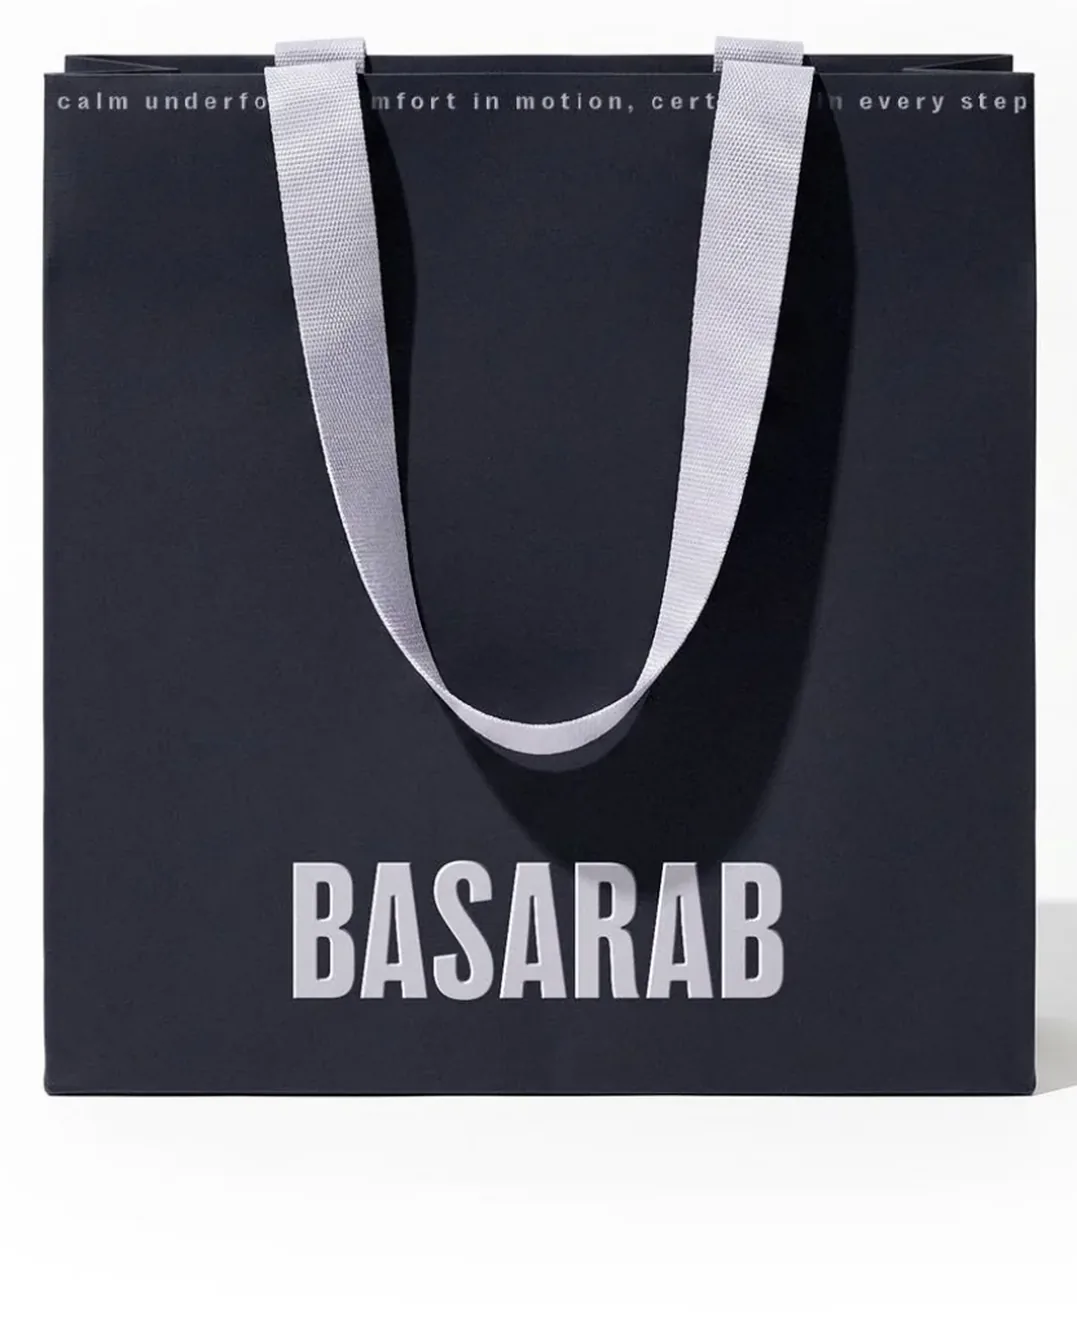
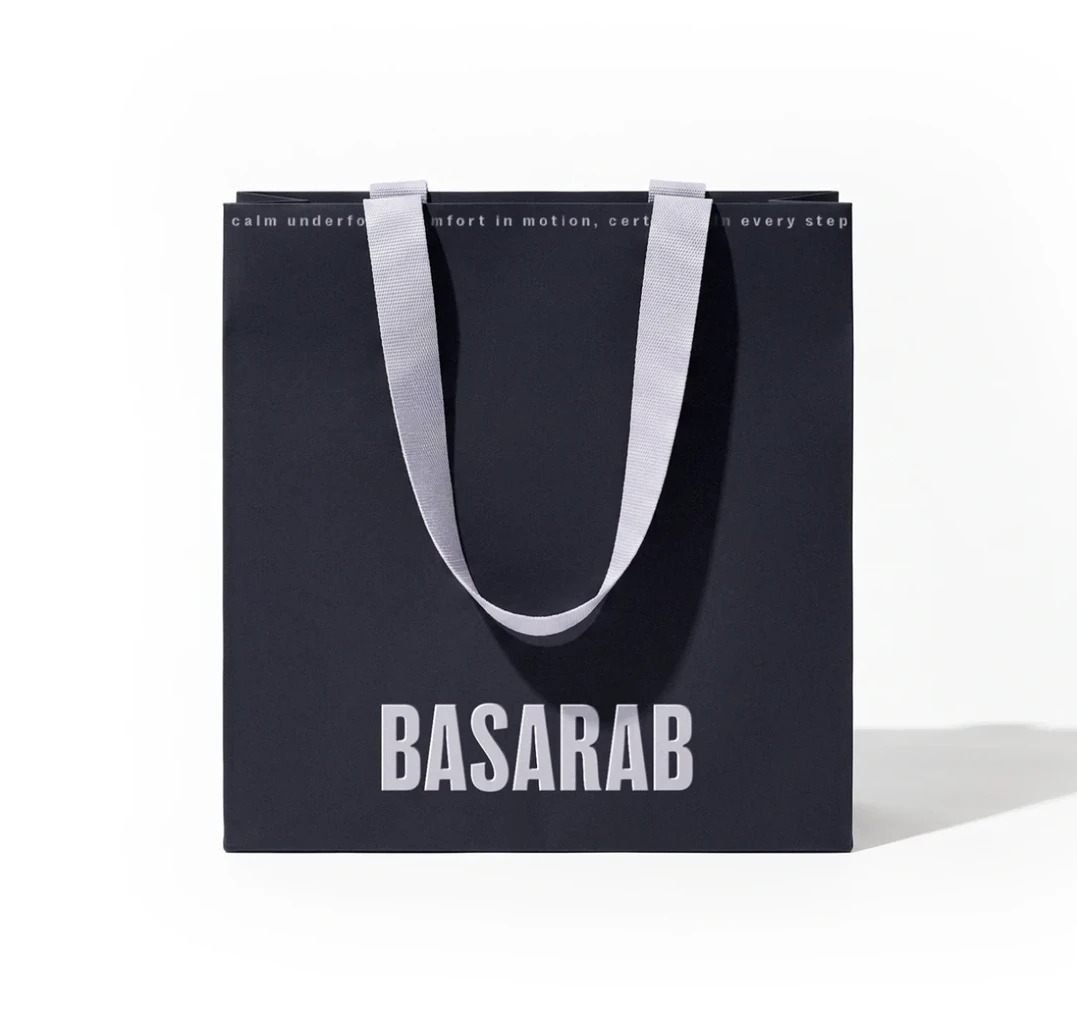
Fix 3 mobile Basarab image crop bugs found via dimension audit
- basarab-m16 (tote bag): file was 1320px tall but container is
  1020px, so object-fit:cover center-cropped away the top tagline
  text entirely. Re-cropped from the corrected desktop source to
  match the container aspect.
- basarab-m19 (care guide): same declared/actual height mismatch;
  re-cropped to the correct aspect for consistency.
- basarab-m23 (billboard): container used --mh:21.25rem instead of
  14.375rem, forcing a ~16% zoom-crop on each side; fixed the --mh
  value and re-cropped from the corrected desktop billboard source
  (no more artifact stripe at the top).

Verified via a full declared-vs-actual dimension scan across all 64
Basarab image refs (now 0 mismatches) and a live Playwright pass
(no broken images, no new text overflow, EN/RU both clean).

diff --git a/index.html b/index.html
@@ -3117,7 +3117,7 @@ button.project__media-link {
       <div class="case__media" style="--mh:21.25rem"><img loading="lazy" src="images/basarab-26.webp?v=2" alt="" width="1006" height="1200" /><img loading="lazy" class="case__media-mobile" src="images/basarab-m22.webp?v=2" alt="" width="1077" height="1020" /></div>
     </div>
 
-    <div class="case__media reveal" style="--mh:21.25rem"><img loading="lazy" src="images/basarab-27.webp?v=2" alt="New collection. Reliable clothes for the everyday. From dawn to dusk." width="2000" height="1253" /><img loading="lazy" class="case__media-mobile" src="images/basarab-m23.webp?v=2" alt="New collection. Reliable clothes for the everyday. From dawn to dusk." width="1077" height="690" /></div>
+    <div class="case__media reveal" style="--mh:14.375rem"><img loading="lazy" src="images/basarab-27.webp?v=2" alt="New collection. Reliable clothes for the everyday. From dawn to dusk." width="2000" height="1253" /><img loading="lazy" class="case__media-mobile" src="images/basarab-m23.webp?v=2" alt="New collection. Reliable clothes for the everyday. From dawn to dusk." width="1077" height="690" /></div>
 
     <div class="case__media reveal" style="--mh:14.375rem"><img loading="lazy" src="images/basarab-28.webp?v=2" alt="" width="2030" height="1240" /><img loading="lazy" class="case__media-mobile" src="images/basarab-m24.webp?v=2" alt="" width="1077" height="690" /></div>
 
